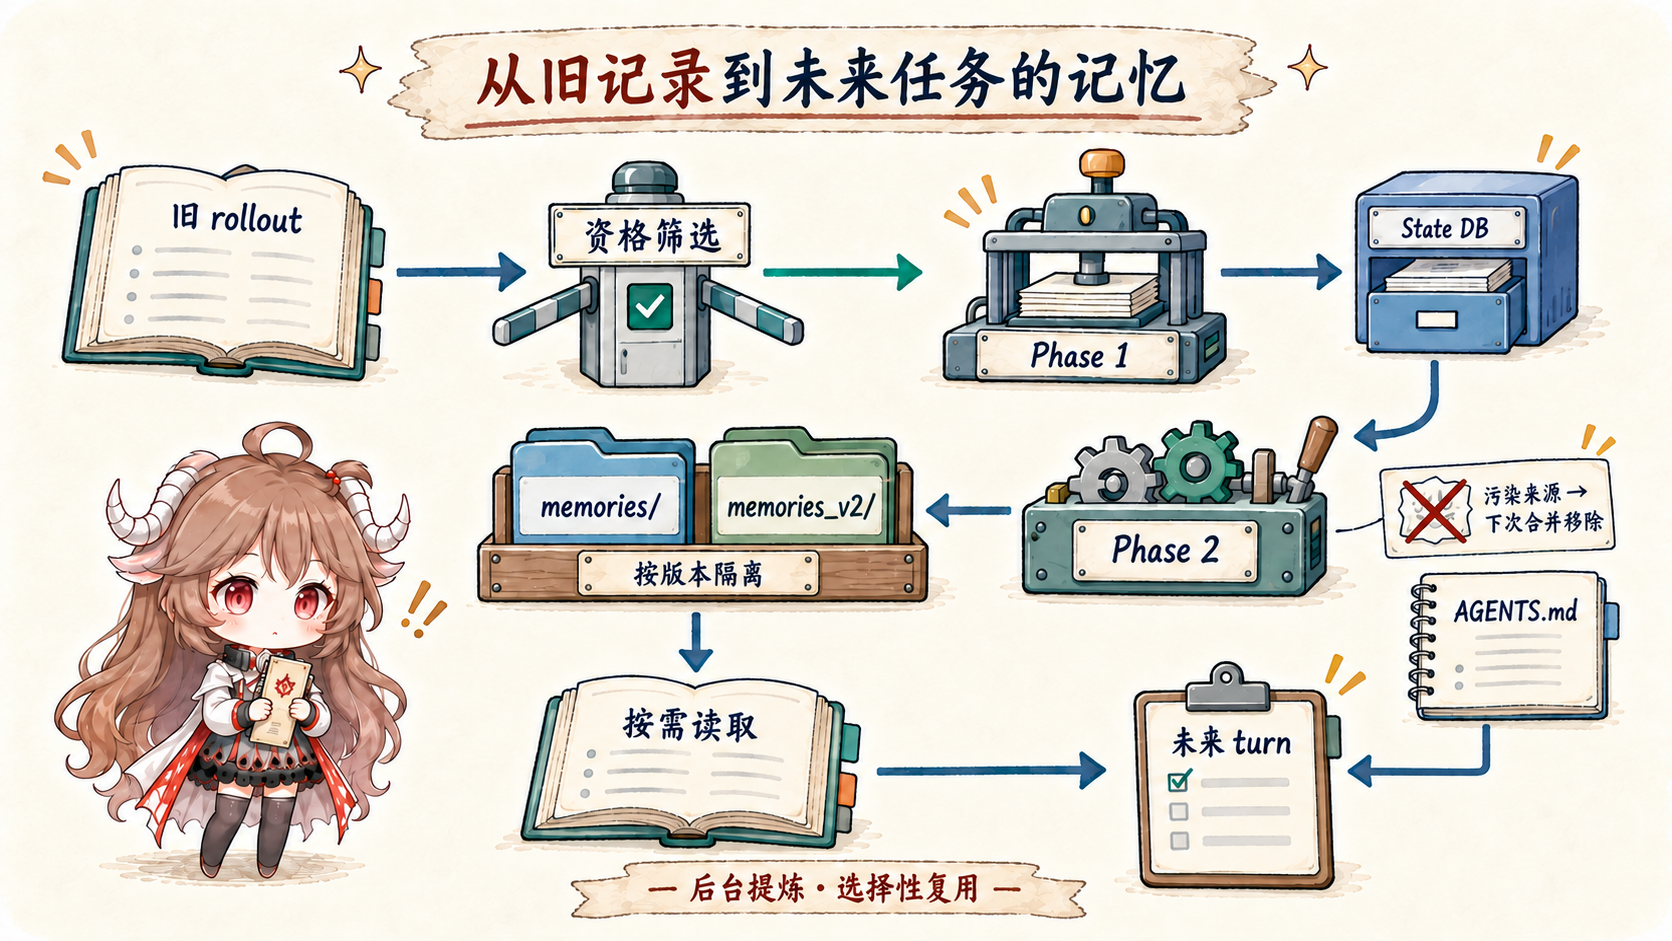
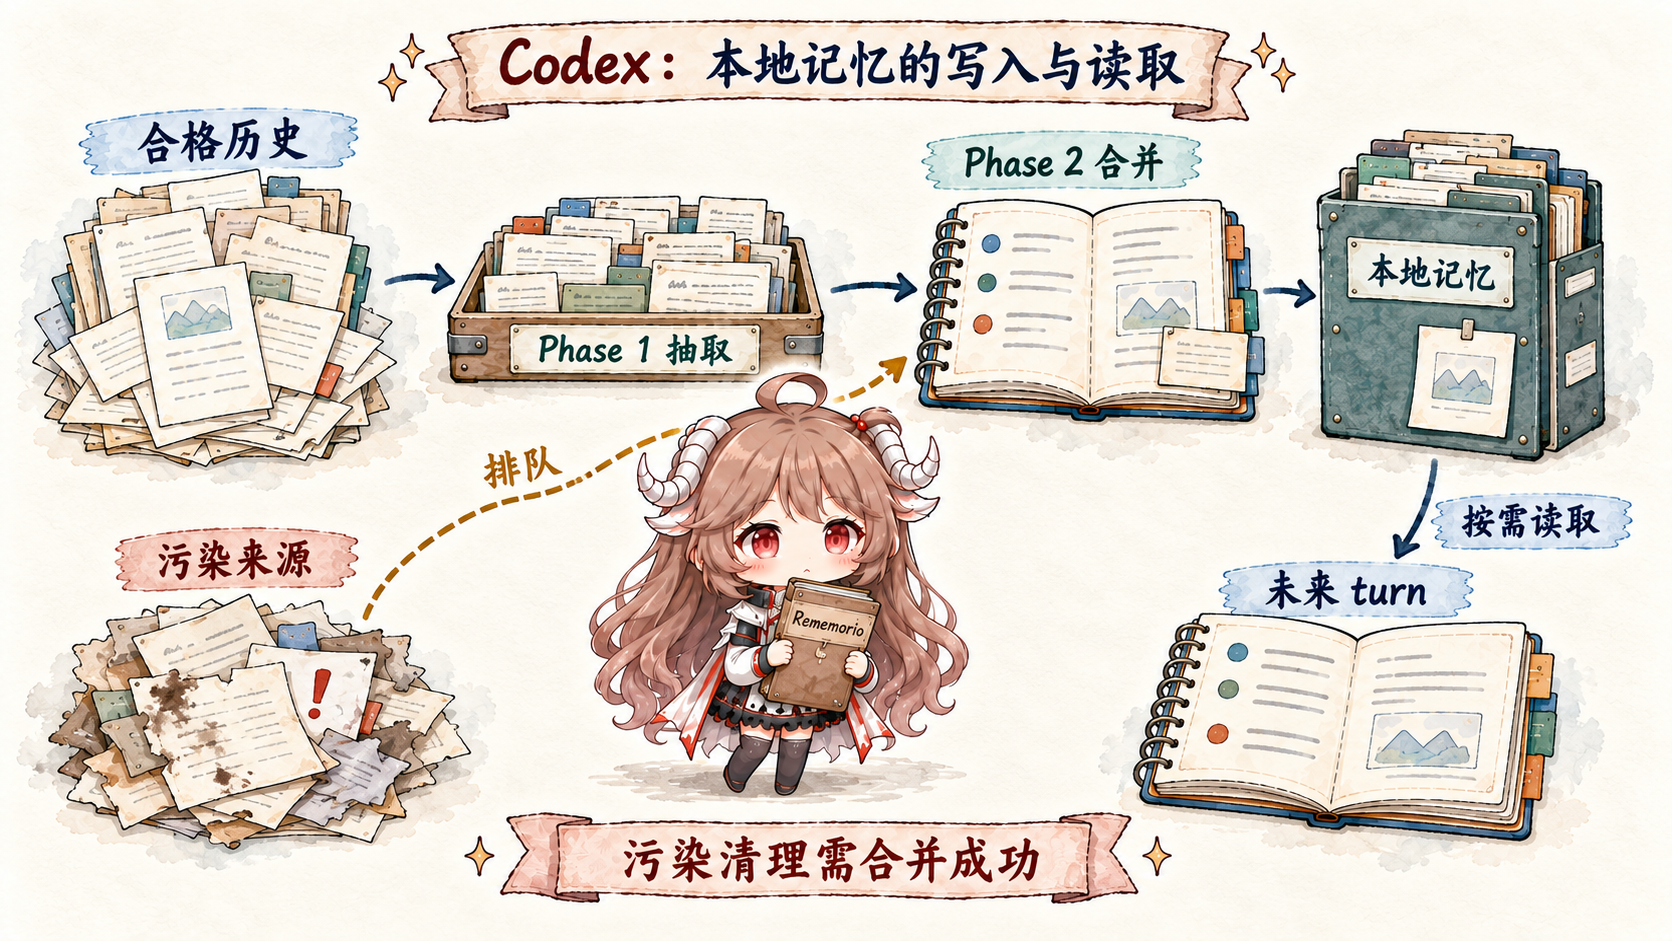
Redraw Codex memory lifecycle in memory illustration style

diff --git a/codex/en/memory-layer/index.html b/codex/en/memory-layer/index.html
@@ -100,9 +100,9 @@
             <figure class="hero-image">
               <img
                 src="../assets/memory-local-recall-layer.png"
-                alt="Eligible past rollouts are extracted and consolidated into versioned memories, then selectively read for a future turn alongside separate AGENTS.md rules"
+                alt="Eligible history passes through Phase 1 extraction and Phase 2 consolidation into local memory for selective future reads; queued pollution cleanup is not completion"
               />
-              <figcaption>The namespace is selected after consolidation. Dual writing is optional; a thread reads only its selected version. Forgetting polluted sources requires successful later consolidation.</figcaption>
+              <figcaption>This figure focuses on extraction, consolidation, and selective reading. A polluted source that contributed to an earlier consolidation schedules later cleanup; removal requires successful consolidation. Version isolation and optional dual writing are explained below.</figcaption>
             </figure>
           </section>
 

diff --git a/codex/zh/memory-layer/index.html b/codex/zh/memory-layer/index.html
@@ -98,9 +98,9 @@
             <figure class="hero-image">
               <img
                 src="../assets/memory-local-recall-layer.png"
-                alt="旧 rollout 经资格筛选、抽取和合并进入按版本隔离的 memory，按需读取后与 AGENTS.md 分别进入未来 turn"
+                alt="合格历史经 Phase 1 抽取和 Phase 2 合并形成本地记忆，未来 turn 按需读取；污染来源的清理排队不等于完成"
               />
-              <figcaption>图示合并后的命名空间选择；双写是可选配置，前台只读取该线程选定的版本。污染来源的移除需要后续合并成功。</figcaption>
+              <figcaption>图中聚焦抽取、合并与按需读取。已参与既有合并的来源被标记污染后，会排队后续清理，只有合并成功才完成移除；版本隔离与可选双写见正文。</figcaption>
             </figure>
           </section>
 

diff --git a/en/index.html b/en/index.html
@@ -1225,7 +1225,7 @@
         </a>
           <a class="post-card" href="../codex/en/memory-layer/" lang="en">
             <span class="post-thumb" aria-hidden="true">
-              <img src="../codex/en/assets/memory-local-recall-layer.png" alt="Eligible past rollouts are extracted and consolidated into versioned memories, then selectively read for a future turn alongside separate AGENTS.md rules" />
+              <img src="../codex/en/assets/memory-local-recall-layer.png" alt="Eligible history passes through Phase 1 extraction and Phase 2 consolidation into local memory for selective future reads; queued pollution cleanup is not completion" />
             </span>
             <span>
               <span class="tag">Source notes</span>

diff --git a/zh/index.html b/zh/index.html
@@ -1251,7 +1251,7 @@
         </a>
           <a class="post-card" href="../codex/zh/memory-layer/" lang="zh-CN">
             <span class="post-thumb" aria-hidden="true">
-              <img src="../codex/zh/assets/memory-local-recall-layer.png" alt="旧 rollout 经资格筛选、抽取和合并进入按版本隔离的 memory，按需读取后与 AGENTS.md 分别进入未来 turn" />
+              <img src="../codex/zh/assets/memory-local-recall-layer.png" alt="合格历史经 Phase 1 抽取和 Phase 2 合并形成本地记忆，未来 turn 按需读取；污染来源的清理排队不等于完成" />
             </span>
             <span>
               <span class="tag">源码阅读</span>

diff --git a/codex/en/index.html b/codex/en/index.html
@@ -423,7 +423,7 @@
         </a>
         <a class="post-card" href="./memory-layer/">
           <span class="post-thumb" aria-hidden="true">
-            <img src="assets/memory-local-recall-layer.png" alt="Eligible past rollouts are extracted and consolidated into versioned memories, then selectively read for a future turn alongside separate AGENTS.md rules" />
+            <img src="assets/memory-local-recall-layer.png" alt="Eligible history passes through Phase 1 extraction and Phase 2 consolidation into local memory for selective future reads; queued pollution cleanup is not completion" />
           </span>
           <span>
             <span class="tag">Source Notes · Part XII</span>

diff --git a/codex/zh/index.html b/codex/zh/index.html
@@ -422,7 +422,7 @@
         </a>
         <a class="post-card" href="./memory-layer/">
           <span class="post-thumb" aria-hidden="true">
-            <img src="assets/memory-local-recall-layer.png" alt="旧 rollout 经资格筛选、抽取和合并进入按版本隔离的 memory，按需读取后与 AGENTS.md 分别进入未来 turn" />
+            <img src="assets/memory-local-recall-layer.png" alt="合格历史经 Phase 1 抽取和 Phase 2 合并形成本地记忆，未来 turn 按需读取；污染来源的清理排队不等于完成" />
           </span>
           <span>
             <span class="tag">源码阅读 · 第十二篇</span>
